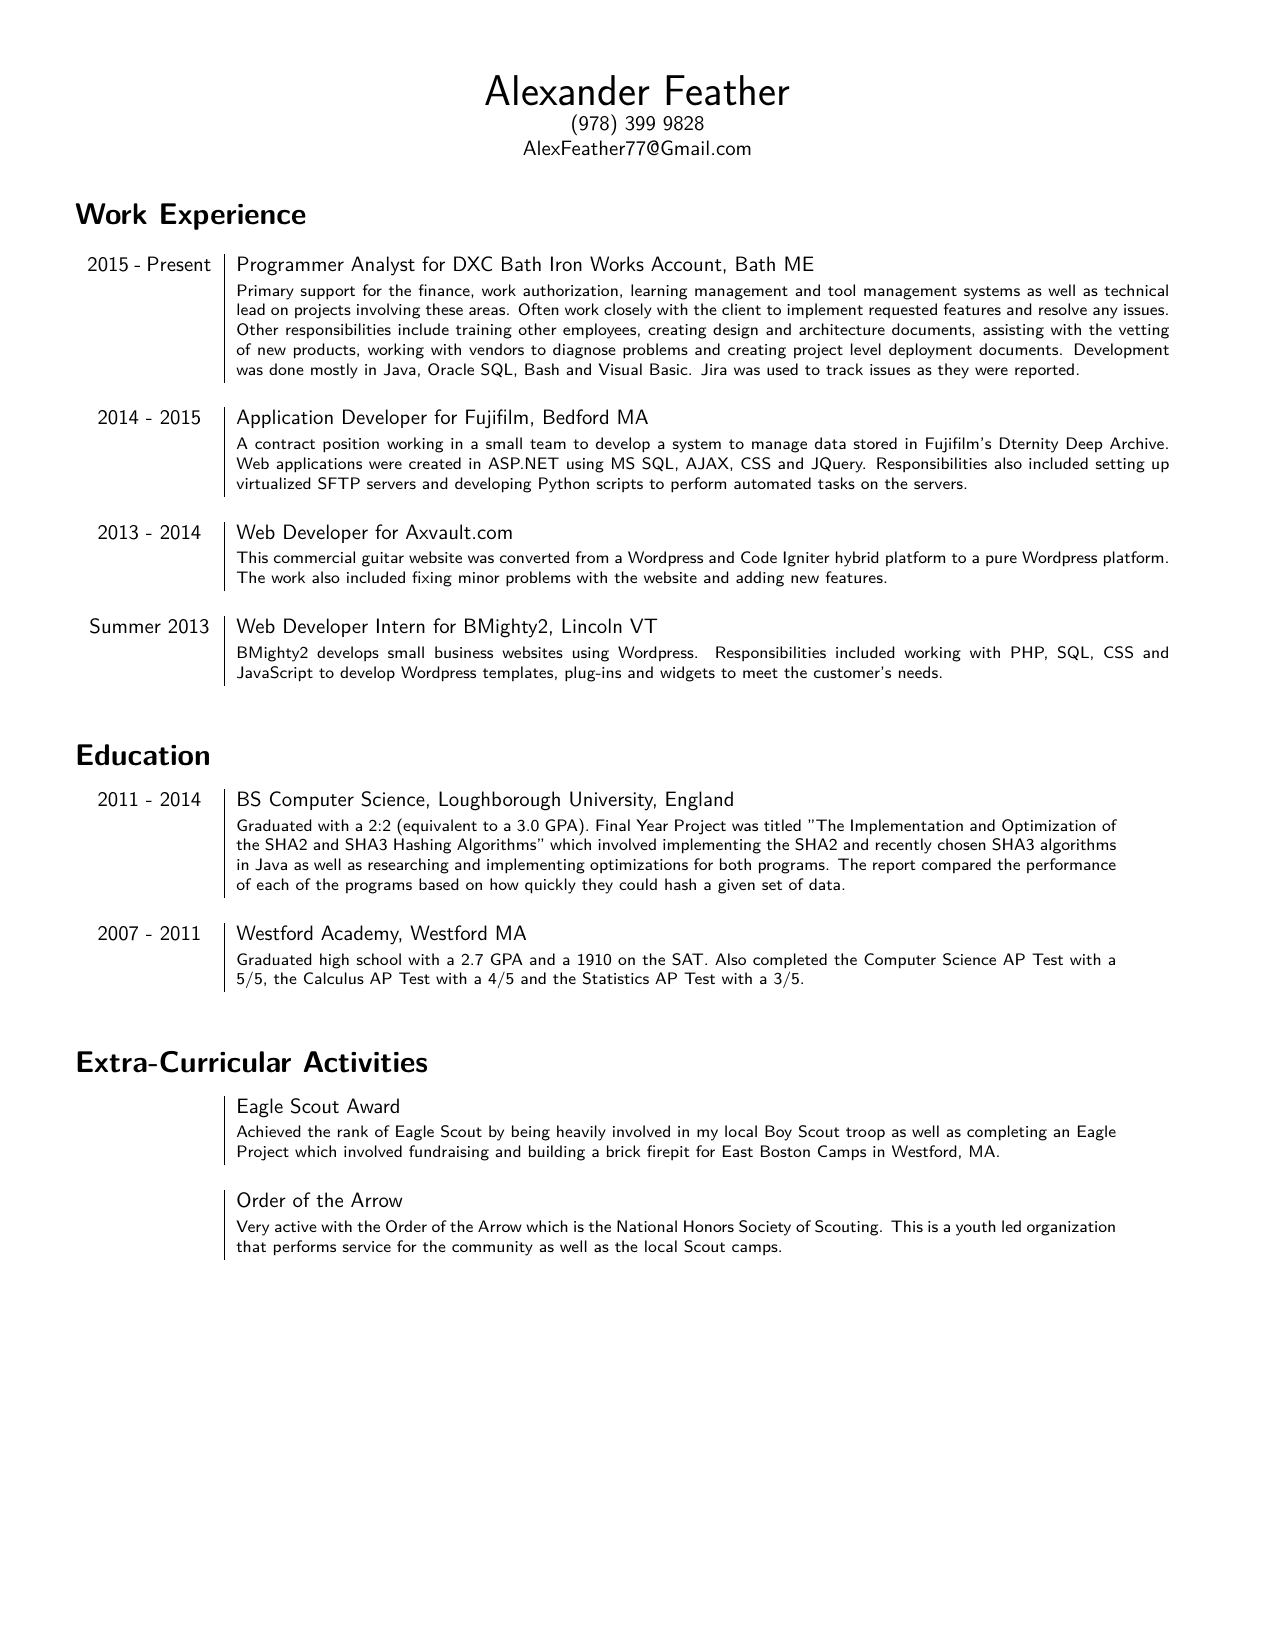
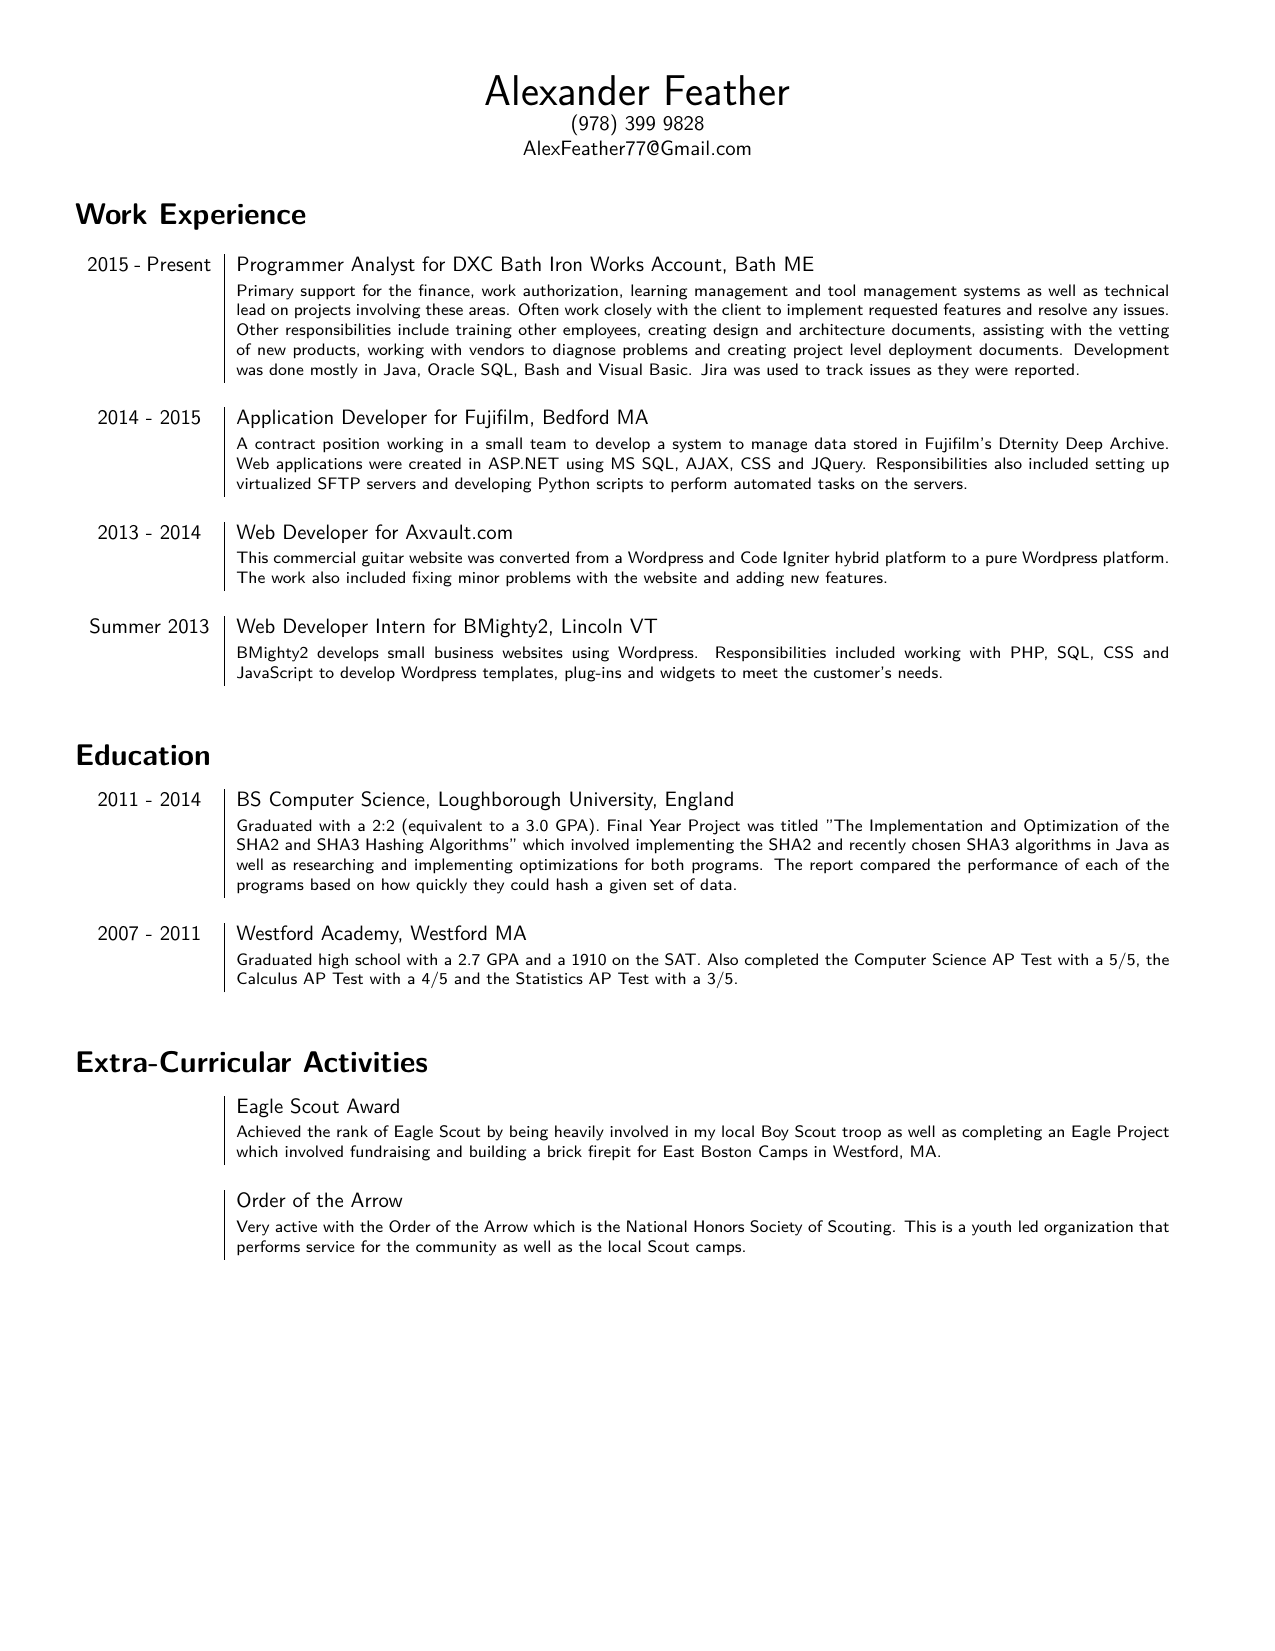
Updated Resume Files

diff --git a/Resume.tex b/Resume.tex
@@ -19,13 +19,13 @@
 \end{tabular}
 
 \section*{\fontfamily{lmss}\selectfont Education}
-\begin{tabular}{p{2.1cm}|p{14.9cm}}
+\begin{tabular}{p{2.1cm}|p{15.8cm}}
 	\centering 2011 - 2014 & BS Computer Science, Loughborough University, England\\&\footnotesize{Graduated with a 2:2 (equivalent to a 3.0 GPA). Final Year Project was titled "The Implementation and Optimization of the SHA2 and SHA3 Hashing Algorithms" which involved implementing the SHA2 and recently chosen SHA3 algorithms in Java as well as researching and implementing optimizations for both programs. The report compared the performance of each of the programs based on how quickly they could hash a given set of data.}\\\multicolumn{2}{c}{} \\
 	\centering 2007 - 2011 & Westford Academy, Westford MA\\&\footnotesize{Graduated high school with a 2.7 GPA and a 1910 on the SAT. Also completed the Computer Science AP Test with a 5/5, the Calculus AP Test with a 4/5 and the Statistics AP Test with a 3/5.}\\\multicolumn{2}{c}{} \\
 \end{tabular}
 
 \section*{\fontfamily{lmss}\selectfont Extra-Curricular Activities}
-\begin{tabular}{p{2.1cm}|p{14.9cm}}
+\begin{tabular}{p{2.1cm}|p{15.8cm}}
 	& Eagle Scout Award\\&\footnotesize{Achieved the rank of Eagle Scout by being heavily involved in my local Boy Scout troop as well as completing an Eagle Project which involved fundraising and building a brick firepit for East Boston Camps in Westford, MA.}\\\multicolumn{2}{c}{} \\
 	& Order of the Arrow\\&\footnotesize{Very active with the Order of the Arrow which is the National Honors Society of Scouting. This is a youth led organization that performs service for the community as well as the local Scout camps.}\\\multicolumn{2}{c}{} \\
 \end{tabular}
